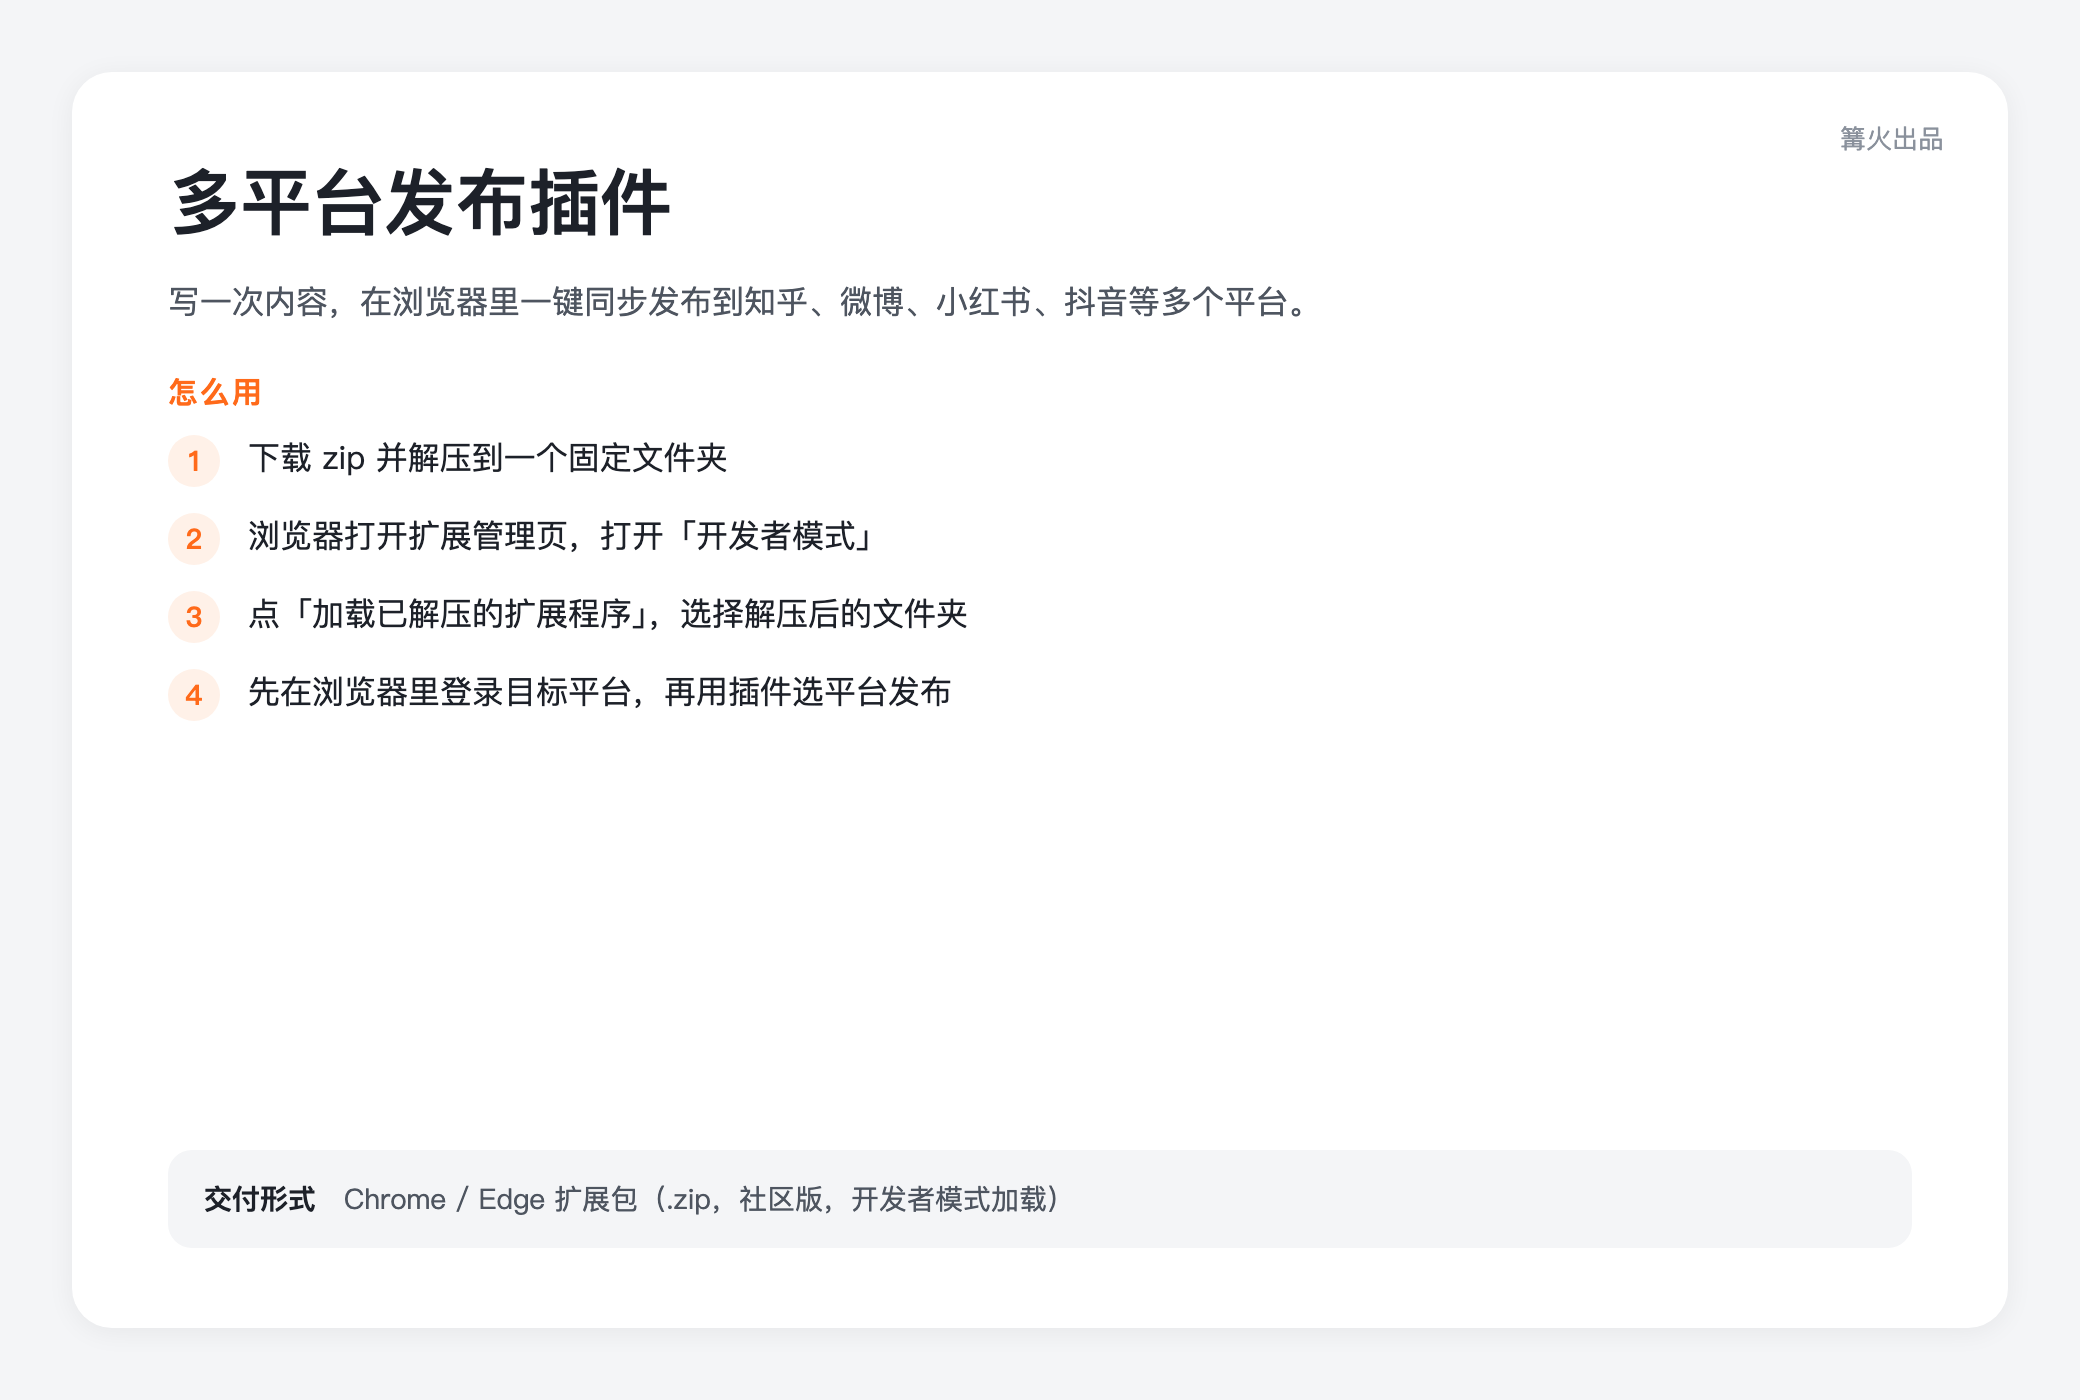
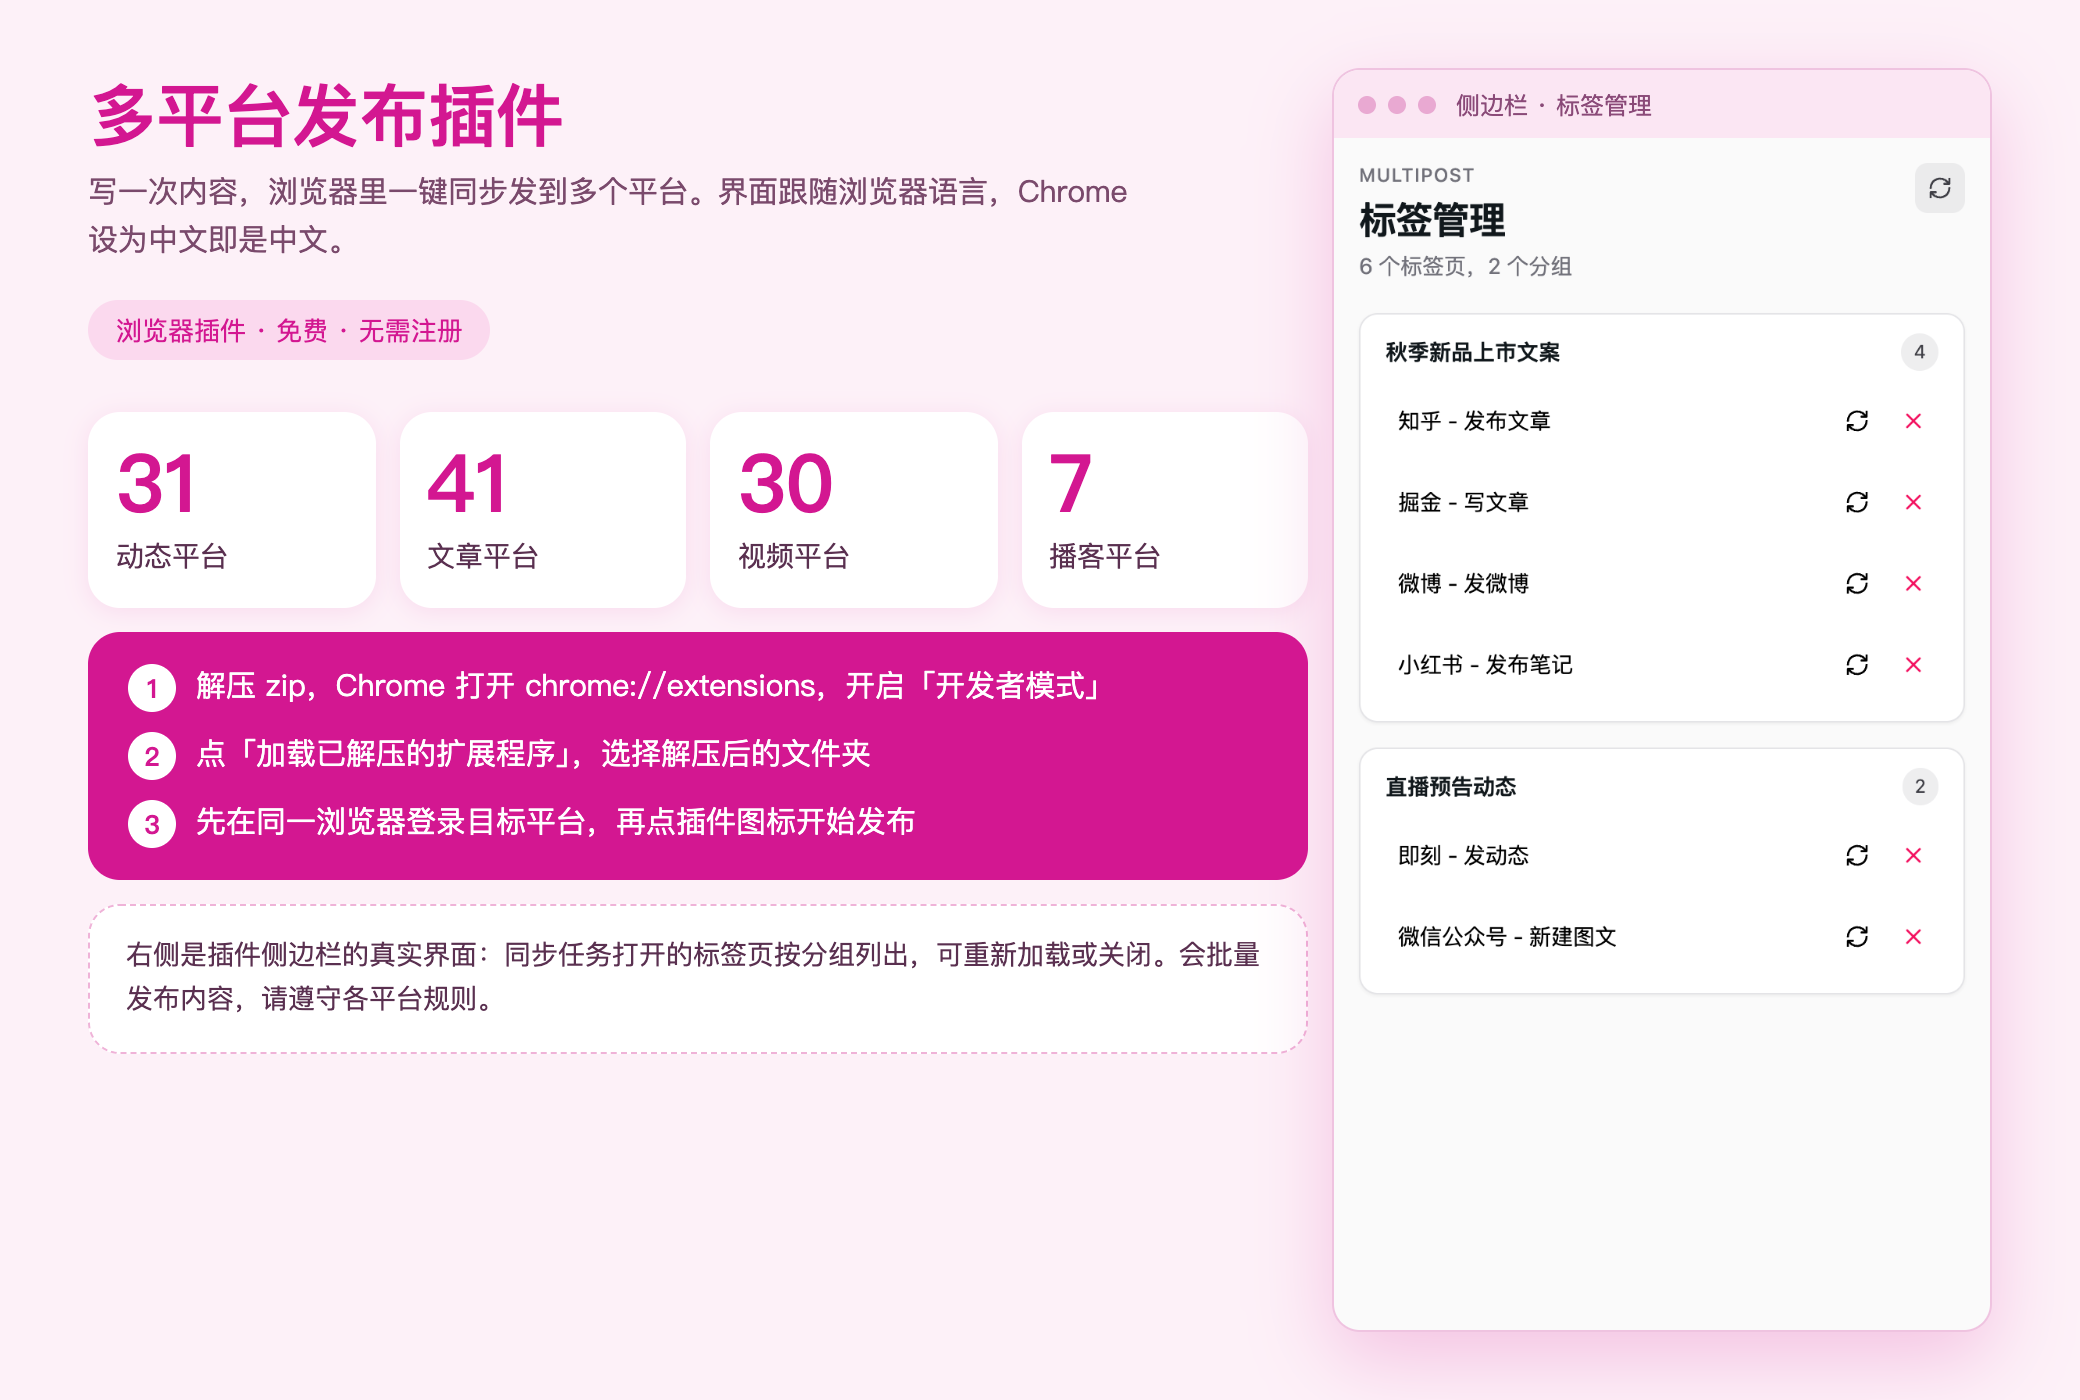
docs: 中文界面真实截图与说明卡，补充切换中文的方法

diff --git a/docs/screenshot.html b/docs/screenshot.html
@@ -1,10 +1,23 @@
-<!doctype html><html lang="zh-CN"><meta charset="utf-8"><title>多平台发布插件</title><style>*{box-sizing:border-box}body{margin:0;width:1040px;height:700px;background:#f4f5f7;font-family:-apple-system,"PingFang SC","Helvetica Neue",sans-serif;color:#1d2129;padding:36px}
-.card{background:#fff;border-radius:20px;height:628px;padding:40px 48px;box-shadow:0 2px 14px rgba(0,0,0,.06);position:relative;display:flex;flex-direction:column;overflow:hidden}
-.brand{position:absolute;right:32px;top:24px;font-size:13px;color:#8a919c}
-h1{margin:0 0 12px;font-size:36px;font-weight:700}
-.desc{font-size:16px;line-height:1.6;color:#4e5560;margin:0 0 22px}
-h2{font-size:15px;color:#ff6a1a;margin:0 0 10px;letter-spacing:1px}
-ol{margin:0;padding:0;list-style:none;counter-reset:n}
-li{counter-increment:n;display:flex;gap:14px;font-size:16px;line-height:1.55;margin-bottom:12px}
-li:before{content:counter(n);flex:none;width:26px;height:26px;border-radius:50%;background:#fff1e8;color:#ff6a1a;font-weight:700;font-size:14px;text-align:center;line-height:26px;margin-top:1px}
-.fmt{margin-top:auto;background:#f4f5f7;border-radius:12px;padding:14px 18px;font-size:14px;line-height:1.5;color:#4e5560}.fmt b{color:#1d2129}</style><body><div class="card"><div class="brand">篝火出品</div><h1>多平台发布插件</h1><p class="desc">写一次内容，在浏览器里一键同步发布到知乎、微博、小红书、抖音等多个平台。</p><h2>怎么用</h2><ol><li><span>下载 zip 并解压到一个固定文件夹</span></li><li><span>浏览器打开扩展管理页，打开「开发者模式」</span></li><li><span>点「加载已解压的扩展程序」，选择解压后的文件夹</span></li><li><span>先在浏览器里登录目标平台，再用插件选平台发布</span></li></ol><div class="fmt"><b>交付形式　</b>Chrome / Edge 扩展包（.zip，社区版，开发者模式加载）</div></div></body></html>
+<!doctype html><html lang="zh-CN"><meta charset="utf-8"><title>多平台发布插件</title><style>
+*{box-sizing:border-box}body{margin:0;width:1040px;height:700px;font-family:-apple-system,"PingFang SC","Helvetica Neue",sans-serif;color:#3a1030;background:#fdf1f8;position:relative;overflow:hidden}
+h1{position:absolute;left:44px;top:34px;margin:0;font-size:34px;color:#D31791}
+.sub{position:absolute;left:44px;top:84px;font-size:15px;color:#7a4a6c;width:520px;line-height:1.6}
+.tag{position:absolute;left:44px;top:150px;font-size:13px;color:#D31791;background:#fbd9ee;border-radius:20px;padding:6px 14px}
+.bro{position:absolute;right:44px;top:34px;width:330px;height:632px;background:#fafafa;border:1px solid #efc3e0;border-radius:14px;box-shadow:0 14px 40px rgba(211,23,145,.22);overflow:hidden}
+.bro .u{height:34px;background:#fbe6f3;display:flex;align-items:center;padding:0 12px;font-size:12px;color:#8a4a78;gap:6px}.bro .u i{width:9px;height:9px;border-radius:50%;background:#e9a9d2}
+.bro img{display:block;width:100%}
+.bento{position:absolute;left:44px;top:206px;width:610px;display:grid;grid-template-columns:repeat(4,1fr);gap:12px}
+.n{background:#fff;border-radius:16px;padding:16px 14px;box-shadow:0 2px 12px rgba(211,23,145,.1)}
+.n b{display:block;font-size:40px;line-height:1;color:#D31791}.n span{display:block;margin-top:6px;font-size:14px;color:#5a3050}
+.st{grid-column:span 4;background:#D31791;color:#fff;border-radius:16px;padding:16px 20px;display:flex;flex-direction:column;gap:10px;font-size:15px;line-height:1.5}
+.st div{display:flex;gap:10px}.st em{flex:none;width:24px;height:24px;border-radius:50%;background:#fff;color:#D31791;font-style:normal;font-weight:700;font-size:13px;text-align:center;line-height:24px}
+.ft{grid-column:span 4;background:#fff;border-radius:16px;padding:14px 18px;font-size:13.5px;line-height:1.65;color:#5a3050;border:1px dashed #efb3d8}
+</style><body>
+<h1>多平台发布插件</h1><div class="sub">写一次内容，浏览器里一键同步发到多个平台。界面跟随浏览器语言，Chrome 设为中文即是中文。</div><div class="tag">浏览器插件 · 免费 · 无需注册</div>
+<div class="bento">
+<div class="n"><b>31</b><span>动态平台</span></div><div class="n"><b>41</b><span>文章平台</span></div><div class="n"><b>30</b><span>视频平台</span></div><div class="n"><b>7</b><span>播客平台</span></div>
+<div class="st"><div><em>1</em><span>解压 zip，Chrome 打开 chrome://extensions，开启「开发者模式」</span></div><div><em>2</em><span>点「加载已解压的扩展程序」，选择解压后的文件夹</span></div><div><em>3</em><span>先在同一浏览器登录目标平台，再点插件图标开始发布</span></div></div>
+<div class="ft">右侧是插件侧边栏的真实界面：同步任务打开的标签页按分组列出，可重新加载或关闭。会批量发布内容，请遵守各平台规则。</div>
+</div>
+<div class="bro"><div class="u"><i></i><i></i><i></i>&nbsp;侧边栏 · 标签管理</div><img src="ui-sidepanel-zh.png"></div>
+</body></html>

diff --git a/README.md b/README.md
@@ -35,7 +35,9 @@
 - 插件的做法是在浏览器里打开各平台的发布页并自动填写内容，所以**目标平台本身需要你先在同一个浏览器里登录**（这是对其工作方式的说明，具体表现以实际试用为准）。
 - 会向各平台批量发布内容，**请遵守各平台的发布规则**，避免高频、重复发布导致账号被限制。
 - 插件申请了较宽的权限（读取所有网站、标签页、剪贴板读写等，见 `manifest.json`），请只安装来自篝火发布页的包，并核对 SHA256。
-- 界面语言默认中文。
+- **界面语言**：插件界面（侧边栏等）有简体中文和英文两套语言包（`locales/zh_CN`、`locales/en`），**跟随浏览器语言**，插件里没有手动切换。如果显示的是英文：Chrome 打开 `chrome://settings/languages`（Edge 是 `edge://settings/languages`），把「简体中文」设为首选语言，并选「以这种语言显示 Google Chrome」，重启浏览器后插件即显示中文。
+- 点浏览器工具栏里的插件图标，会打开上游的网页发布页（`multipost.app/dashboard/publish`），写内容、选平台都在这个网页里完成，网页自身的语言和内容以上游网站为准，不在本仓库和安装包内。侧边栏里会显示「MULTIPOST」品牌字样，是上游写死的原文。
+- 本说明卡上的界面图是用上游源码本地构建后，在浏览器里以中文渲染的侧边栏，里面的标签页标题是我们编写的示例数据。
 
 ## 验收用例
 
